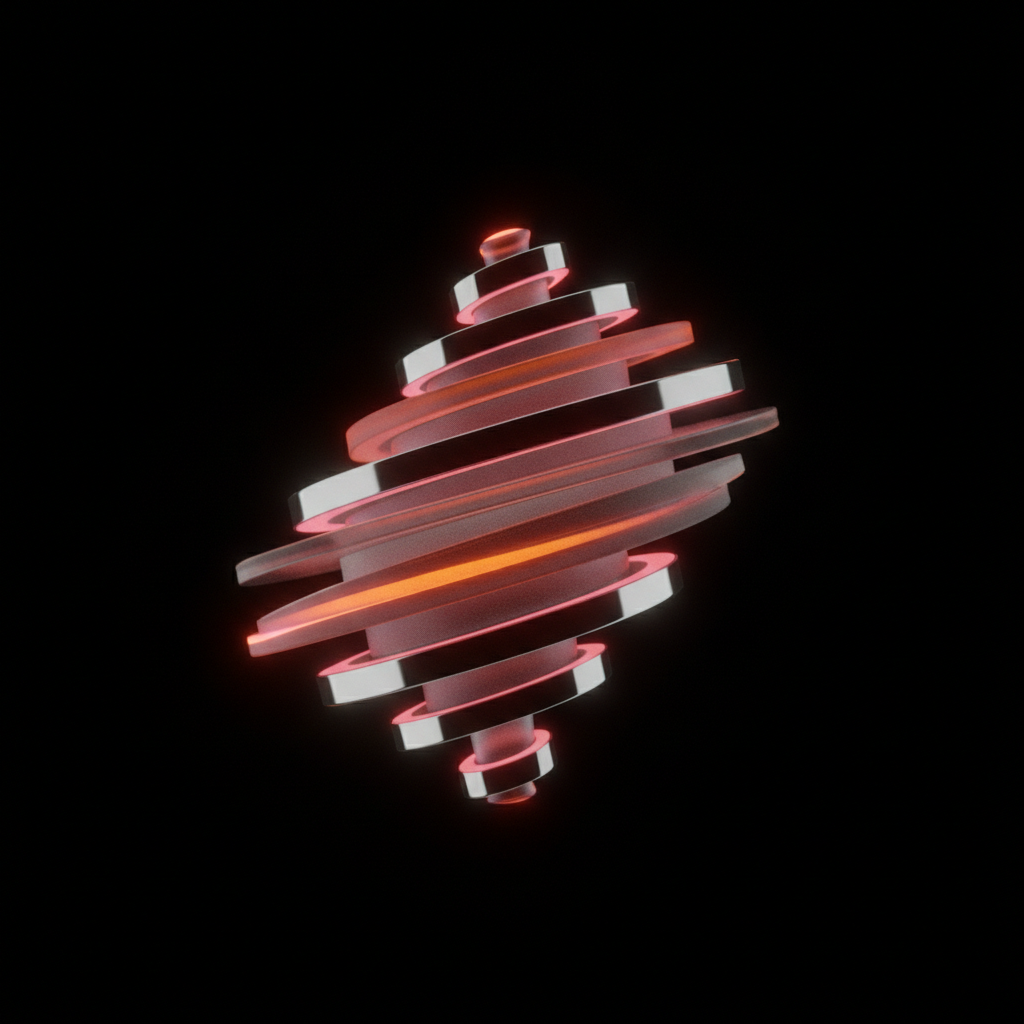
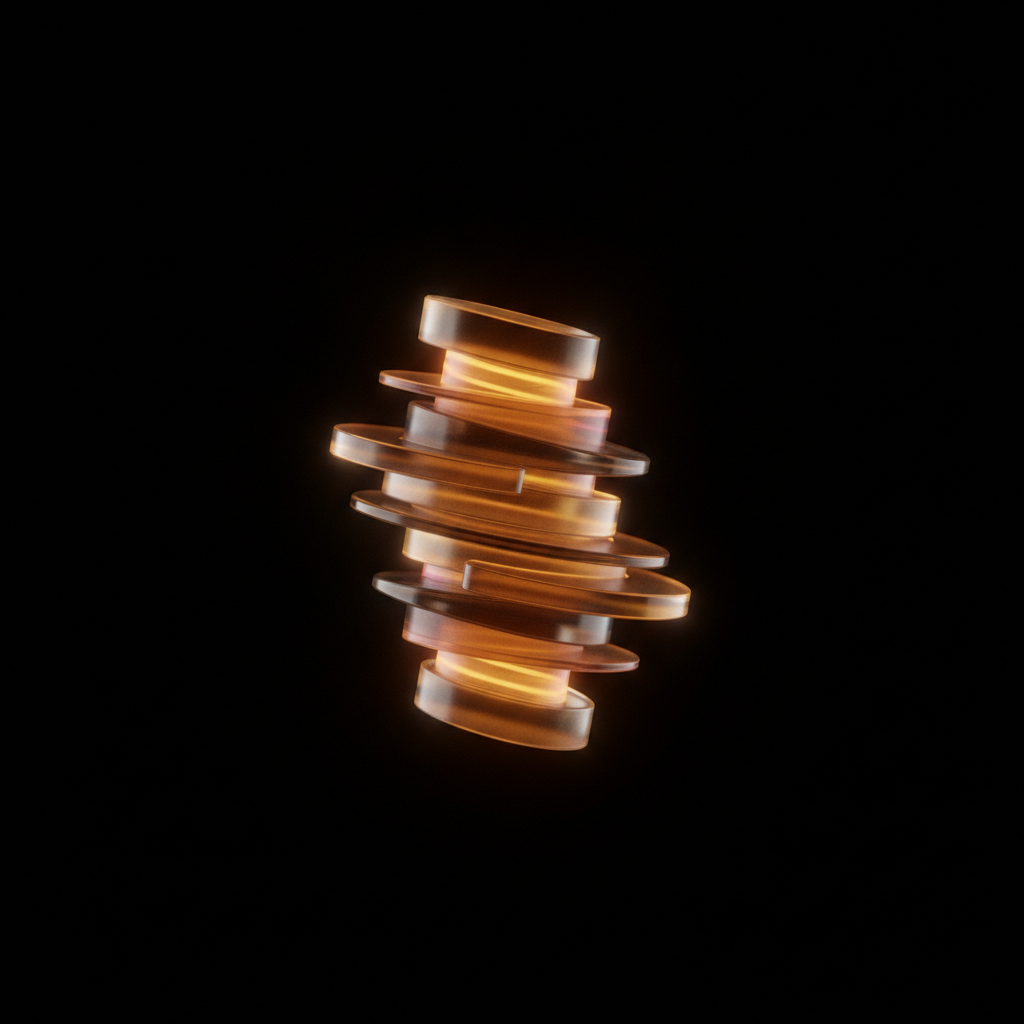
Strengths reveal redesign: no box, no spotlight, dimensional; floating-margin images
Addressing feedback (frosted area felt like a square, reveal felt like a circle, wanted
more dimensional + a whole-at-once reveal):
- Regenerated all 6 images with a FLOATING composition (subject ~55-60% of frame, generous
  black margin on all sides, never touching edges) so the object floats on the section's
  black — the container square is invisible.
- Frost veil is now blur+dim ONLY (removed the flat rgba tint that was drawing a visible
  square on the black); the black margin stays black so there is no box.
- Reveal changed from a cursor-following circular hole to dissolving the WHOLE veil at once
  on hover (generous), so the object lights up sharp all at once — no spotlight circle.
- Dimensional: on hover the orb steps forward (scale 1.05) and tilts in 3D toward the
  cursor (perspective+rotateX/Y via mousemove, reset on mouseleave). Slot up to 470px.

Verified real Chromium: default = soft floating glow blob (no square), hover = full sharp
reveal + 3D tilt (frost opacity 1->0, transform perspective/rotate/scale), 0 errors.

Changed region(s): [[0.2188, 0.1875, 0.7812, 0.8125]]

diff --git a/monopo-vn-study.html b/monopo-vn-study.html
@@ -991,20 +991,20 @@ body.ready .mv-contact-footer {
   letter-spacing:.12em;text-transform:uppercase;color:rgba(245,245,245,.5);margin-bottom:clamp(28px,4vw,52px)}
 .mv-strengths-eyebrow::before{content:'\2198';font-size:13px;opacity:.65}
 .mv-strengths-row{display:grid;grid-template-columns:0.72fr 1.28fr;gap:clamp(32px,5vw,72px);align-items:center}
-.mv-strengths-orb{position:relative;width:100%;max-width:min(440px,38vw);aspect-ratio:1/1;justify-self:center;overflow:hidden;border-radius:8px;
-  --mx:50%;--my:50%;--r:clamp(66px,9vw,120px)}
+.mv-strengths-orb{position:relative;width:100%;max-width:min(470px,40vw);aspect-ratio:1/1;justify-self:center;overflow:hidden;
+  transform:perspective(1000px);transform-origin:center;transition:transform .55s cubic-bezier(.22,1,.36,1);will-change:transform}
+.mv-strengths-orb:hover{transform:perspective(1000px) scale(1.05)}   /* object steps forward (JS adds a cursor tilt) */
 .mv-strengths-orb img{position:absolute;inset:0;width:100%;height:100%;object-fit:cover;opacity:0;transform:translate3d(0,18px,0) scale(1.03);
   transition:opacity .6s cubic-bezier(.22,1,.36,1),transform .6s cubic-bezier(.22,1,.36,1);will-change:opacity,transform}
-.mv-strengths-orb img:first-child{opacity:1;transform:none}   /* fallback + mobile (JS syncs the rest to the active item on desktop) */
-/* frosted-glass veil (hero-like field) over the image; hover cuts a soft clear hole under the cursor */
-.orb-frost{position:absolute;inset:0;z-index:2;pointer-events:none;border-radius:inherit;
-  -webkit-backdrop-filter:blur(17px) saturate(.82) brightness(.6);backdrop-filter:blur(17px) saturate(.82) brightness(.6);
-  background:radial-gradient(58% 58% at 28% 20%,rgba(255,150,40,.10),transparent 62%),rgba(6,6,9,.30)}
-.mv-strengths-orb:hover .orb-frost{
-  -webkit-mask:radial-gradient(circle var(--r) at var(--mx) var(--my),transparent 0,transparent 40%,#000 82%);
-          mask:radial-gradient(circle var(--r) at var(--mx) var(--my),transparent 0,transparent 40%,#000 82%)}
-@media (pointer:coarse){.orb-frost{display:none}}   /* no hover on touch -> show the sharp image */
-@keyframes mvOrb{0%,100%{transform:scale(1) rotate(0deg)}50%{transform:scale(1.05) rotate(10deg)}}
+.mv-strengths-orb img:first-child{opacity:1;transform:none}   /* fallback + mobile */
+/* frosted veil: blur + dim ONLY (no flat tint -> black margin stays black -> NO visible square box).
+   hover dissolves the WHOLE veil at once (generous reveal, not a circular spotlight) -> the object lights up. */
+.orb-frost{position:absolute;inset:0;z-index:2;pointer-events:none;
+  -webkit-backdrop-filter:blur(22px) brightness(.56) saturate(.94);backdrop-filter:blur(22px) brightness(.56) saturate(.94);
+  transition:opacity .5s cubic-bezier(.22,1,.36,1)}
+.mv-strengths-orb:hover .orb-frost{opacity:0}
+@media (pointer:coarse){.orb-frost{display:none}}
+
 .mv-str-stage{position:relative;min-height:clamp(220px,34vh,340px)}
 .mv-str-item{position:absolute;left:0;right:0;top:0;margin:0;opacity:0;will-change:opacity,transform;
   font-size:clamp(19px,2.4vw,32px);font-weight:450;line-height:1.4;letter-spacing:-.01em;color:#f5f5f4}
@@ -1557,9 +1557,12 @@ try{history.scrollRestoration='manual';}catch(e){}</script>
     });
     imgs.forEach(function(im,i){ im.style.opacity = i===0?'1':'0'; im.style.transform = i===0?'none':'translate3d(0,18px,0) scale(1.03)'; });   /* image settles in sync with its text item */
     var orb = sec.querySelector('.mv-strengths-orb');
-    if(orb) orb.addEventListener('mousemove', function(e){ var r=orb.getBoundingClientRect();   /* move the frost's clear hole with the cursor */
-      orb.style.setProperty('--mx', ((e.clientX-r.left)/r.width*100).toFixed(1)+'%');
-      orb.style.setProperty('--my', ((e.clientY-r.top)/r.height*100).toFixed(1)+'%'); });
+    if(orb){
+      orb.addEventListener('mousemove', function(e){ var r=orb.getBoundingClientRect();   /* subtle 3D tilt toward the cursor */
+        var dx=(e.clientX-r.left)/r.width-0.5, dy=(e.clientY-r.top)/r.height-0.5;
+        orb.style.transform='perspective(1000px) rotateY('+(dx*9).toFixed(2)+'deg) rotateX('+(-dy*9).toFixed(2)+'deg) scale(1.05)'; });
+      orb.addEventListener('mouseleave', function(){ orb.style.transform=''; });
+    }
     return { sec:sec, items:items, imgs:imgs, idx:0 };
   });
   if(!secs.length) return;
